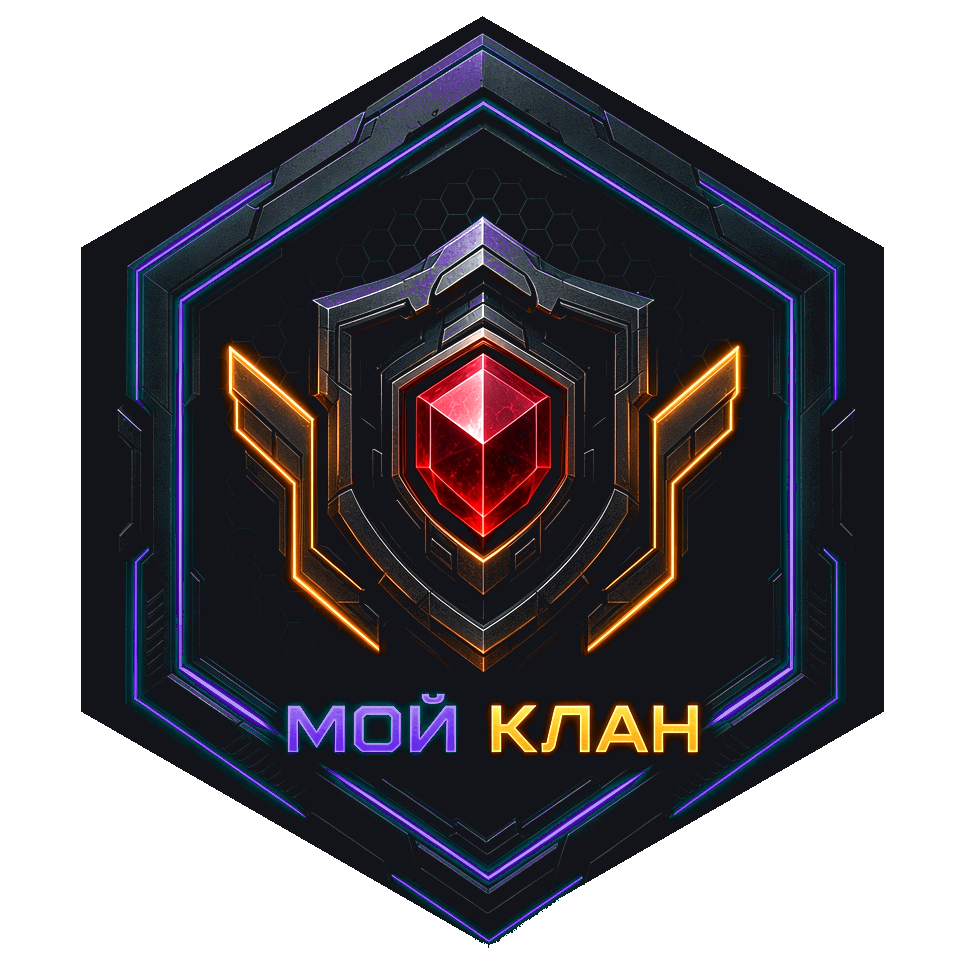
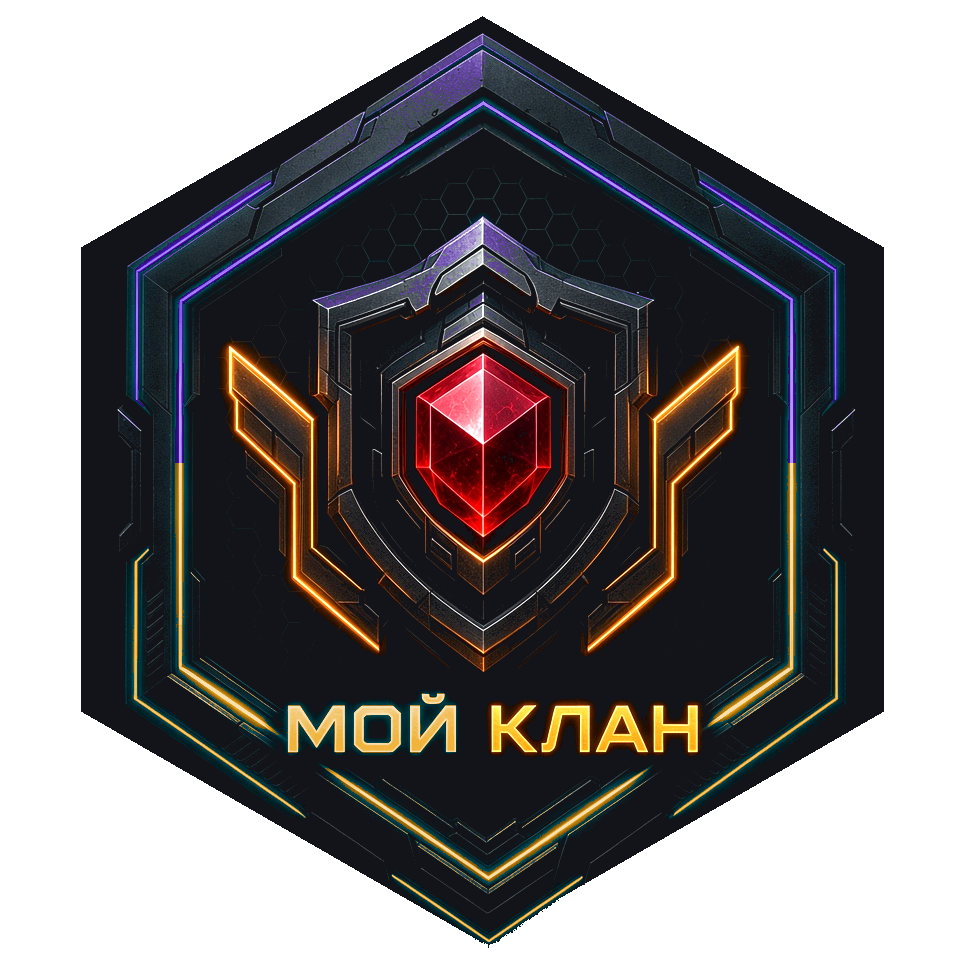
Widen hub art, sharpen berries, and keep yellow labels inside the polygon.
Full-bleed cover for the crystal garden, a tighter centered square grid so tiles stay unclipped, and gold title text matching ВОЙНЫ.

diff --git a/src/app/globals.css b/src/app/globals.css
@@ -22382,34 +22382,42 @@ body:has(.not-found-page) .site-footer-note {
 .home-layout.is-hub {
   grid-template-columns: minmax(0, 1fr);
   grid-template-areas: "hub";
-  padding: 6px 16px 8px 10px;
+  padding: 0;
   column-gap: 0;
+}
+
+.home-page.is-hub .home-stage-veil {
+  background:
+    linear-gradient(
+      180deg,
+      rgba(5, 4, 10, 0.12) 0%,
+      rgba(5, 4, 10, 0.04) 45%,
+      rgba(5, 4, 10, 0.22) 100%
+    );
 }
 
 .home-hub {
   grid-area: hub;
   position: relative;
   display: grid;
-  place-items: center;
+  place-items: stretch;
   width: 100%;
   height: 100%;
   min-height: 0;
-  padding-left: 220px;
+  padding: 0;
   box-sizing: border-box;
 }
 
-/* чистый узор 16:9 — чёрный полигон в центре, вкладки внутри */
+/* узор на всю ширину/высоту главной */
 .home-hub-poly {
   position: relative;
   z-index: 2;
+  width: 100%;
   height: 100%;
-  width: auto;
-  aspect-ratio: 16 / 9;
-  max-width: 100%;
-  max-height: 100%;
   background-position: center;
   background-repeat: no-repeat;
-  background-size: 100% 100%;
+  background-size: cover;
+  filter: saturate(1.18) contrast(1.12) brightness(1.05);
 }
 
 /* CW rail: угол слева, вне блока разделов */
@@ -22532,20 +22540,20 @@ body:has(.not-found-page) .site-footer-note {
   background: rgba(110, 35, 55, 0.55);
 }
 
-/* квадрат 3×3 по центру чёрного полигона */
+/* квадрат 3×3 строго внутри чёрного полигона (не обрезается рамкой) */
 .home-hub-grid {
   position: absolute;
   z-index: 1;
   left: 50%;
   top: 50%;
   translate: -50% -50%;
-  width: 34%;
+  width: min(26vw, 38vh, 340px);
   aspect-ratio: 1 / 1;
   height: auto;
   display: grid;
   grid-template-columns: repeat(3, minmax(0, 1fr));
   grid-template-rows: repeat(3, minmax(0, 1fr));
-  gap: 4px;
+  gap: 3px;
   min-width: 0;
   min-height: 0;
 }
@@ -22561,36 +22569,29 @@ body:has(.not-found-page) .site-footer-note {
   background: transparent;
   border: none;
   box-shadow: none;
-  overflow: visible;
+  overflow: hidden;
   transition: transform 0.18s ease;
 }
 
-/* рамка по квадрату эмблемы; снаружи щита прозрачно (виден фон сайта) */
 .home-hub-tile-plate {
   position: absolute;
   inset: 0;
   z-index: 0;
-  border-radius: 14px;
-  border: 1px solid rgba(167, 139, 250, 0.38);
+  border-radius: 10px;
+  border: 1px solid rgba(251, 191, 36, 0.22);
   background: transparent;
-  box-shadow:
-    0 0 0 1px rgba(124, 58, 237, 0.12),
-    0 10px 22px rgba(0, 0, 0, 0.34);
   pointer-events: none;
 }
 
 .home-hub-tile:hover,
 .home-hub-tile:focus-visible {
-  transform: translateY(-2px) scale(1.012);
+  transform: translateY(-1px) scale(1.02);
   outline: none;
 }
 
 .home-hub-tile:hover .home-hub-tile-plate,
 .home-hub-tile:focus-visible .home-hub-tile-plate {
-  border-color: rgba(167, 139, 250, 0.62);
-  box-shadow:
-    0 0 0 1px rgba(167, 139, 250, 0.22),
-    0 14px 28px rgba(0, 0, 0, 0.42);
+  border-color: rgba(251, 191, 36, 0.55);
 }
 
 .home-hub-tile-art {

diff --git a/src/components/HomeHub.tsx b/src/components/HomeHub.tsx
@@ -40,7 +40,7 @@ export function HomeHub({ showCw, cwCards }: Props) {
 
       <div
         className="home-hub-poly"
-        style={{ backgroundImage: "url(/home-hub/hub-poly-clean-v4.jpg?v=1)" }}
+        style={{ backgroundImage: "url(/home-hub/hub-poly-clean-v4.jpg?v=2)" }}
       >
         <nav className="home-hub-grid" aria-label="Быстрые разделы">
           {HOME_HUB_TILES.map((tile) => (
@@ -55,7 +55,7 @@ export function HomeHub({ showCw, cwCards }: Props) {
               <span
                 className="home-hub-tile-art"
                 aria-hidden="true"
-                style={{ backgroundImage: `url(${tile.image}?v=plate7)` }}
+                style={{ backgroundImage: `url(${tile.image}?v=plate8)` }}
               />
             </Link>
           ))}

diff --git a/docs/CHANGELOG.md b/docs/CHANGELOG.md
@@ -1,3 +1,9 @@
+## v. 1.2.154 — 05.11.2026 · Хаб: узор во всю ширину + жёлтые подписи
+
+Узор на всю главную, ярче/чётче. Сетка вкладок уже внутри полигона. Названия на плитках — жёлтые, как «войны».
+
+---
+
 ## v. 1.2.153 — 05.11.2026 · Хаб: чистый узор + квадрат вкладок
 
 Чистая картинка полигона на главной; 9 разделов — компактный квадрат строго внутри чёрной зоны.
